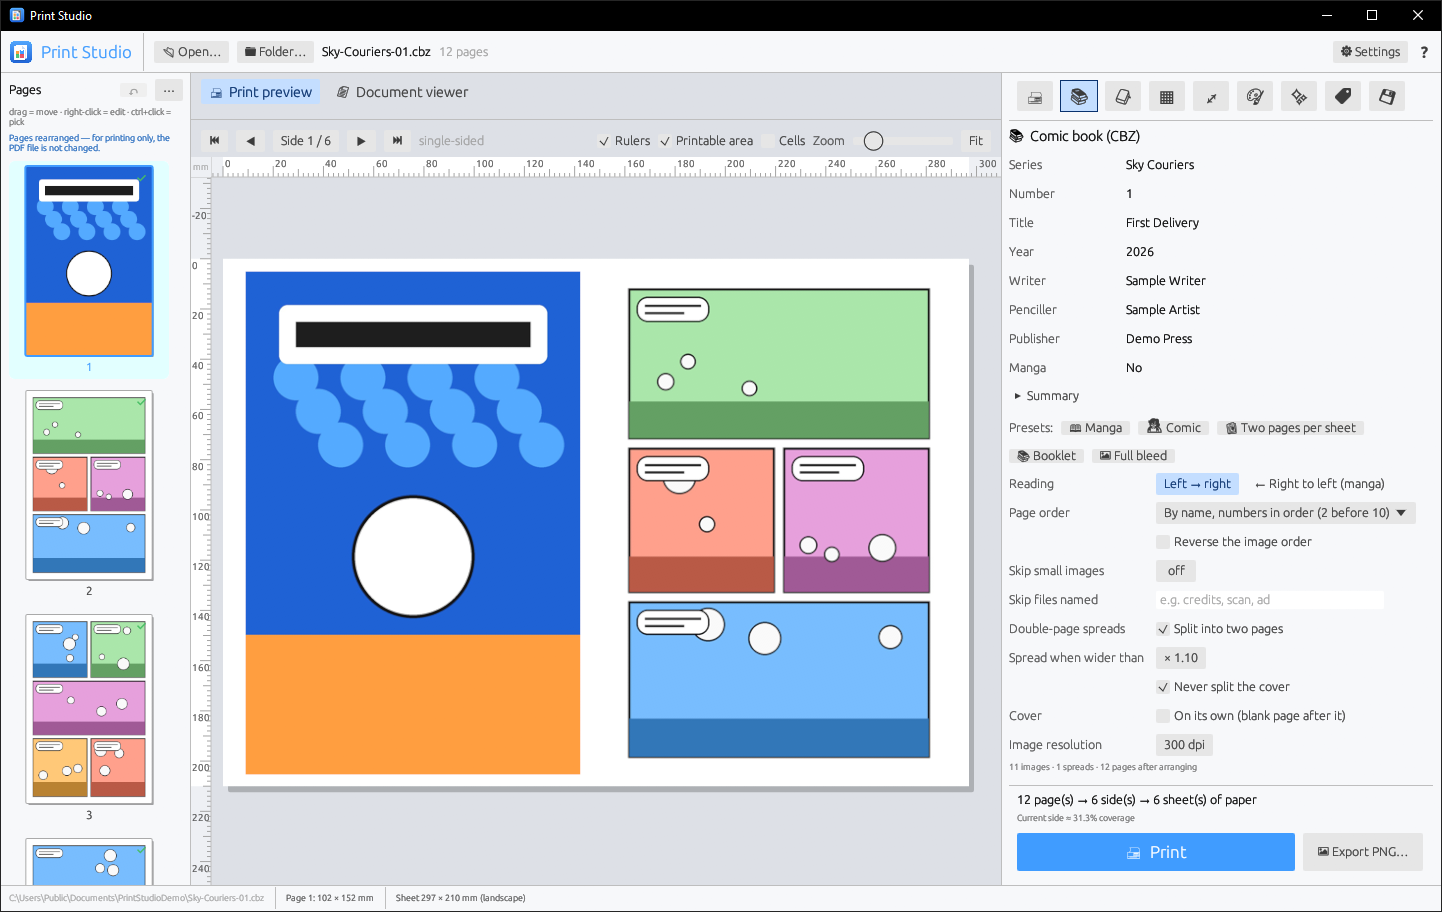
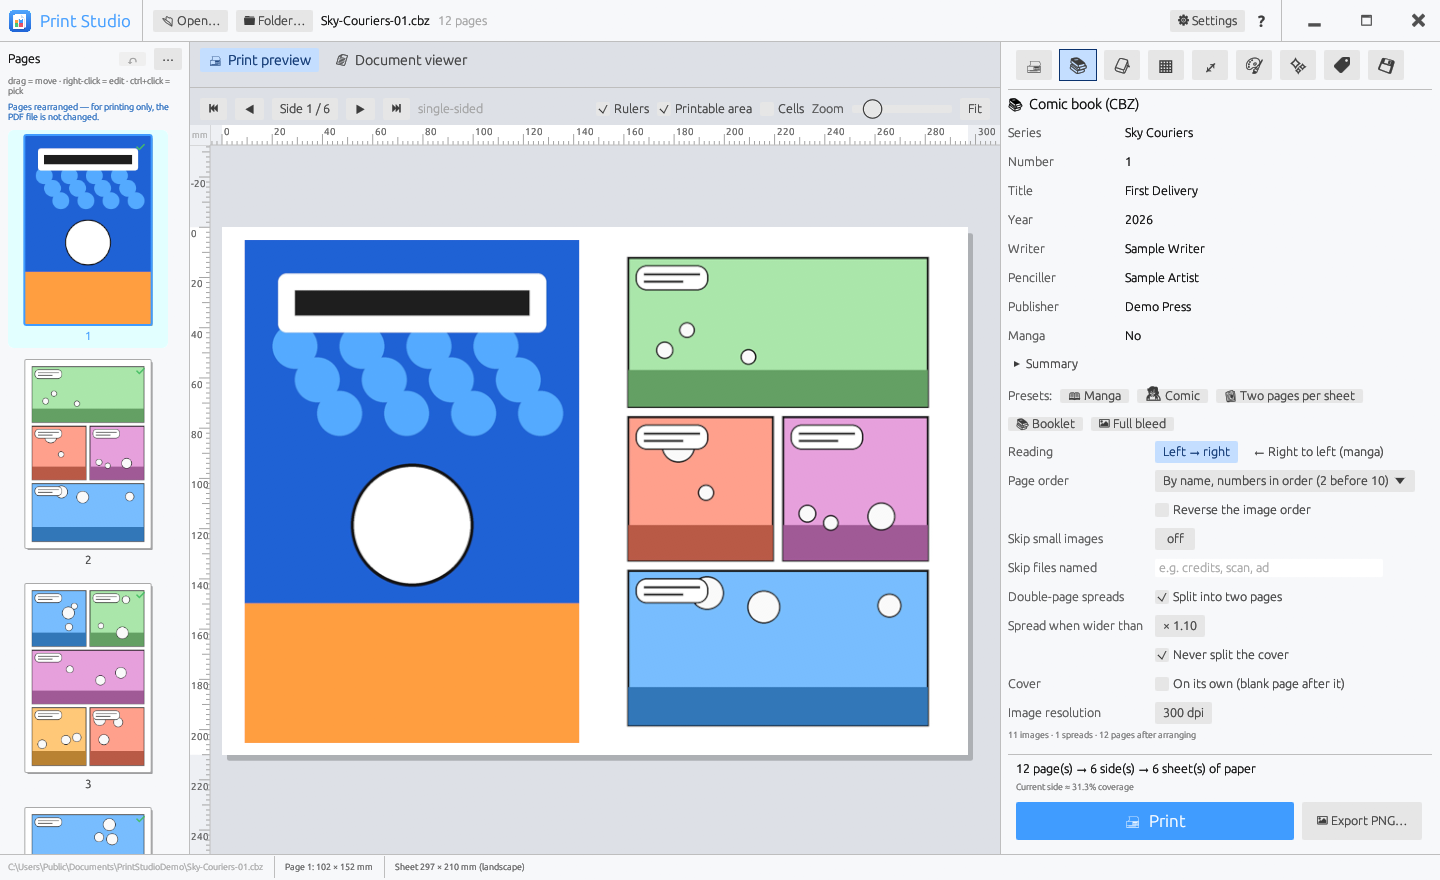
Use the app's top bar as the window title bar; v0.5.2
The Windows title bar is gone: the top bar moves the window (double-click maximizes) and has
minimize, maximize and close buttons. The window edges resize it.

Changed region(s): [[0.0, 0.0, 1.0, 1.0], [0.9062, 0.9205, 0.9688, 0.9511], [0.2188, 0.583, 0.25, 0.6443]]

diff --git a/src/app.rs b/src/app.rs
@@ -35,6 +35,8 @@ pub fn run(files: Vec<PathBuf>, quick: bool, prefs: Prefs) -> eframe::Result<()>
         .with_inner_size(prefs.window_size)
         .with_min_inner_size(MIN_WINDOW)
         .with_maximized(prefs.start_maximized)
+        // the top bar is the title bar (see `ui_top`)
+        .with_decorations(false)
         .with_drag_and_drop(true);
     if let Some(p) = prefs.window_pos {
         viewport = viewport.with_position(p);
@@ -813,6 +815,7 @@ impl eframe::App for App {
         }
         self.ui_prefs(ctx);
         self.updater.show(ctx, self.path.as_ref());
+        resize_edges(ctx);
     }
 
     fn on_exit(&mut self, _gl: Option<&eframe::glow::Context>) {
@@ -882,7 +885,16 @@ impl App {
     // ------------------------------------------------------------ top bar
 
     fn ui_top(&mut self, ctx: &egui::Context) {
-        egui::TopBottomPanel::top("top").exact_height(42.0).show(ctx, |ui| {
+        let frame = egui::Frame::side_top_panel(&ctx.style()).inner_margin(egui::Margin { left: 8.0, ..Default::default() });
+        egui::TopBottomPanel::top("top").exact_height(42.0).frame(frame).show(ctx, |ui| {
+            // empty parts of the bar move the window; added first so the buttons on top get the clicks
+            let maximized = ui.input(|i| i.viewport().maximized.unwrap_or(false));
+            let bar = ui.interact(ui.max_rect(), egui::Id::new("title_bar"), egui::Sense::click_and_drag());
+            if bar.double_clicked() {
+                ctx.send_viewport_cmd(egui::ViewportCommand::Maximized(!maximized));
+            } else if bar.drag_started_by(egui::PointerButton::Primary) {
+                ctx.send_viewport_cmd(egui::ViewportCommand::StartDrag);
+            }
             ui.horizontal_centered(|ui| {
                 ui.add(egui::Image::new(&self.logo).fit_to_exact_size(vec2(24.0, 24.0)));
                 ui.label(RichText::new("Print Studio").strong().size(17.0).color(ACCENT));
@@ -905,6 +917,8 @@ impl App {
                     ui.label(RichText::new(trf!("{} pages", self.sizes_mm.len())).color(Color32::GRAY));
                 }
                 ui.with_layout(egui::Layout::right_to_left(egui::Align::Center), |ui| {
+                    window_buttons(ui, maximized);
+                    ui.separator();
                     if ui
                         .add(egui::Button::new(RichText::new("❓").size(16.0)).frame(false))
                         .on_hover_text(tr("Manual & template help (F1)"))
@@ -921,6 +935,69 @@ impl App {
         });
     }
 
+}
+
+/// Minimize, maximize/restore and close, right to left, in place of the Windows title bar.
+fn window_buttons(ui: &mut Ui, maximized: bool) {
+    let ctx = ui.ctx().clone();
+    let button = |ui: &mut Ui, icon: &str, hover: Color32| {
+        let size = vec2(44.0, ui.available_height());
+        let (rect, resp) = ui.allocate_exact_size(size, egui::Sense::click());
+        if resp.hovered() {
+            ui.painter().rect_filled(rect, 0.0, hover);
+        }
+        let color = if resp.hovered() && hover == CLOSE_RED { Color32::WHITE } else { ui.visuals().text_color() };
+        ui.painter().text(rect.center(), egui::Align2::CENTER_CENTER, icon, egui::FontId::proportional(14.0), color);
+        resp
+    };
+    let hover = ui.visuals().widgets.hovered.weak_bg_fill;
+    if button(ui, "🗙", CLOSE_RED).on_hover_text(tr("Close")).clicked() {
+        ctx.send_viewport_cmd(egui::ViewportCommand::Close);
+    }
+    let (icon, tip) = if maximized { ("🗗", tr("Restore")) } else { ("🗖", tr("Maximize")) };
+    if button(ui, icon, hover).on_hover_text(tip).clicked() {
+        ctx.send_viewport_cmd(egui::ViewportCommand::Maximized(!maximized));
+    }
+    if button(ui, "🗕", hover).on_hover_text(tr("Minimize")).clicked() {
+        ctx.send_viewport_cmd(egui::ViewportCommand::Minimized(true));
+    }
+}
+
+const CLOSE_RED: Color32 = Color32::from_rgb(196, 43, 28);
+
+/// A window without Windows' frame has no resize border of its own: resize from the outer few points.
+fn resize_edges(ctx: &egui::Context) {
+    use egui::viewport::ResizeDirection as D;
+    const EDGE: f32 = 5.0;
+    if ctx.input(|i| i.viewport().maximized.unwrap_or(false)) {
+        return;
+    }
+    let Some(p) = ctx.input(|i| i.pointer.hover_pos()) else { return };
+    let r = ctx.screen_rect();
+    let (l, rt, t, b) = (p.x - r.left() < EDGE, r.right() - p.x < EDGE, p.y - r.top() < EDGE, r.bottom() - p.y < EDGE);
+    let dir = match (l, rt, t, b) {
+        (true, _, true, _) => D::NorthWest,
+        (_, true, true, _) => D::NorthEast,
+        (true, _, _, true) => D::SouthWest,
+        (_, true, _, true) => D::SouthEast,
+        (true, ..) => D::West,
+        (_, true, ..) => D::East,
+        (_, _, true, _) => D::North,
+        (_, _, _, true) => D::South,
+        _ => return,
+    };
+    ctx.set_cursor_icon(match dir {
+        D::North | D::South => egui::CursorIcon::ResizeVertical,
+        D::East | D::West => egui::CursorIcon::ResizeHorizontal,
+        D::NorthWest | D::SouthEast => egui::CursorIcon::ResizeNwSe,
+        D::NorthEast | D::SouthWest => egui::CursorIcon::ResizeNeSw,
+    });
+    if ctx.input(|i| i.pointer.primary_pressed()) {
+        ctx.send_viewport_cmd(egui::ViewportCommand::BeginResize(dir));
+    }
+}
+
+impl App {
     fn ui_status(&mut self, ctx: &egui::Context) {
         egui::TopBottomPanel::bottom("status").exact_height(26.0).show(ctx, |ui| {
             ui.horizontal_centered(|ui| {

diff --git a/src/i18n/pt_br.rs b/src/i18n/pt_br.rs
@@ -993,4 +993,7 @@ pub static ENTRIES: &[(&str, &str)] = &[
     ("pick a page (★) for \"Picked in sidebar\"", "marca uma página (★) para \"Marcadas na barra lateral\""),
     ("Drag & drop", "Arrastar e soltar"),
     ("open a PDF", "abre um PDF"),
+    ("Restore", "Restaurar"),
+    ("Maximize", "Maximizar"),
+    ("Minimize", "Minimizar"),
 ];

diff --git a/README.md b/README.md
@@ -14,7 +14,7 @@
   <a href="https://github.com/mberehulka/print-studio/releases/latest"><img src="https://img.shields.io/github/v/release/mberehulka/print-studio?label=latest&color=54aaff" alt="Latest version"></a>
 </p>
 
-![Print preview with two pages per sheet, header, footer and a DRAFT watermark](docs/screenshots/preview.png?v=0.5.1)
+![Print preview with two pages per sheet, header, footer and a DRAFT watermark](docs/screenshots/preview.png?v=0.5.2)
 
 Print Studio gives you a live preview of the printed sheet before you print, and the preview always matches
 what comes out of the printer. It's a single `.exe` and needs no installer, admin rights or extra DLLs.
@@ -24,13 +24,13 @@ what comes out of the printer. It's a single `.exe` and needs no installer, admi
 **Layouts.** Put several pages on one sheet (any grid up to 16×16). Print a **booklet** that you fold and staple.
 Spread a **poster** across several sheets, or repeat one page across the sheet for labels and business cards.
 
-![Booklet layout: pages reordered so the folded stack reads like a book](docs/screenshots/booklet.png?v=0.5.1)
+![Booklet layout: pages reordered so the folded stack reads like a book](docs/screenshots/booklet.png?v=0.5.2)
 
 **Comic books (CBZ).** Open `.cbz` archives directly. You can read right-to-left for manga, split double-page
 spreads into two pages, keep the cover on its own page, and skip credit pages or banners. The app also shows the
 ComicInfo metadata and has presets for manga, comics, two-up and booklets.
 
-![A comic book with its CBZ panel: metadata, presets and spread handling](docs/screenshots/comic.png?v=0.5.1)
+![A comic book with its CBZ panel: metadata, presets and spread handling](docs/screenshots/comic.png?v=0.5.2)
 
 **E-books (EPUB).** E-books have no fixed pages, so Print Studio typesets them into real book pages. You choose
 the page size (A5, A6, 6×9 in paperback…), margins, font, text size, line spacing, indents and justification.
@@ -38,7 +38,7 @@ Chapters can start on a new or right-hand page, and you can add a cover page, a 
 running heads with the chapter title and page numbers. Presets cover paperback, pocket book, large print and
 paper-saving; then print it as a booklet or two pages per sheet.
 
-![An e-book typeset into A5 pages, two per sheet, with running head and page numbers](docs/screenshots/ebook.png?v=0.5.1)
+![An e-book typeset into A5 pages, two per sheet, with running head and page numbers](docs/screenshots/ebook.png?v=0.5.2)
 
 **Photos and pictures.** Open JPEG, PNG, GIF, BMP, TIFF, WebP, ICO, TGA, QOI and more, plus HEIC, AVIF and
 camera RAW when the Windows extension for them is installed. Open one picture, several at once or a whole folder,
@@ -69,7 +69,7 @@ printers without a duplex unit. You also get copies, collation, presets, PNG exp
 **Your way.** Light or dark theme, rulers in millimetres, English or **Português (Brasil)** (picked automatically
 from your Windows settings), and a default window size and position.
 
-![Dark theme in Portuguese, four pages per sheet](docs/screenshots/dark-pt-br.png?v=0.5.1)
+![Dark theme in Portuguese, four pages per sheet](docs/screenshots/dark-pt-br.png?v=0.5.2)
 
 ## Install
 
